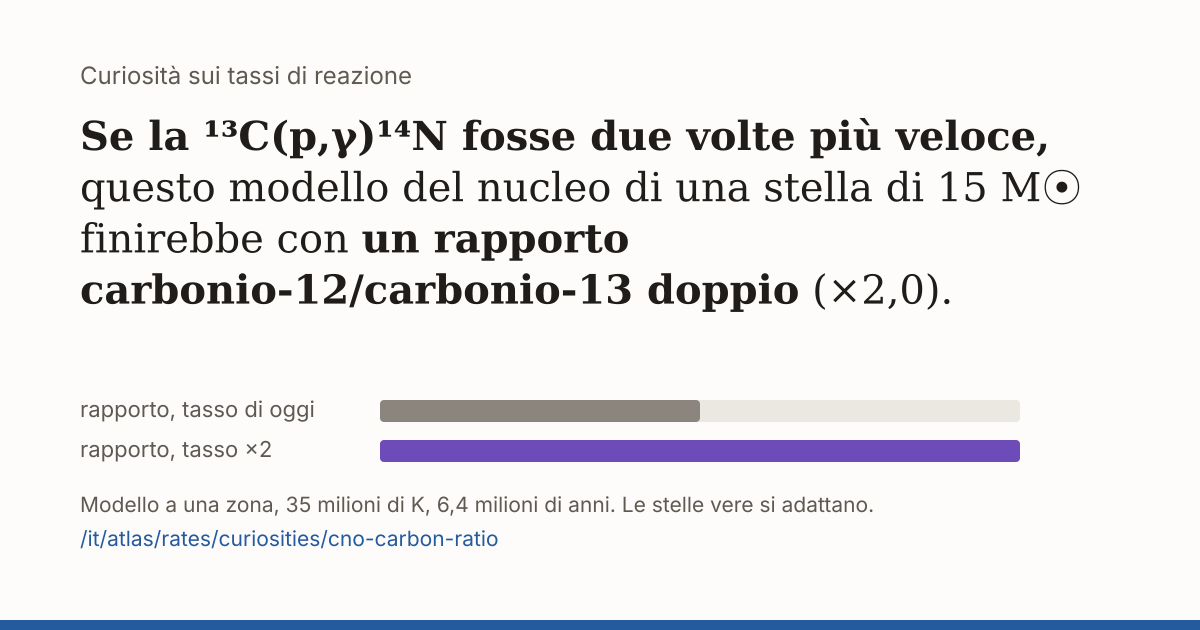
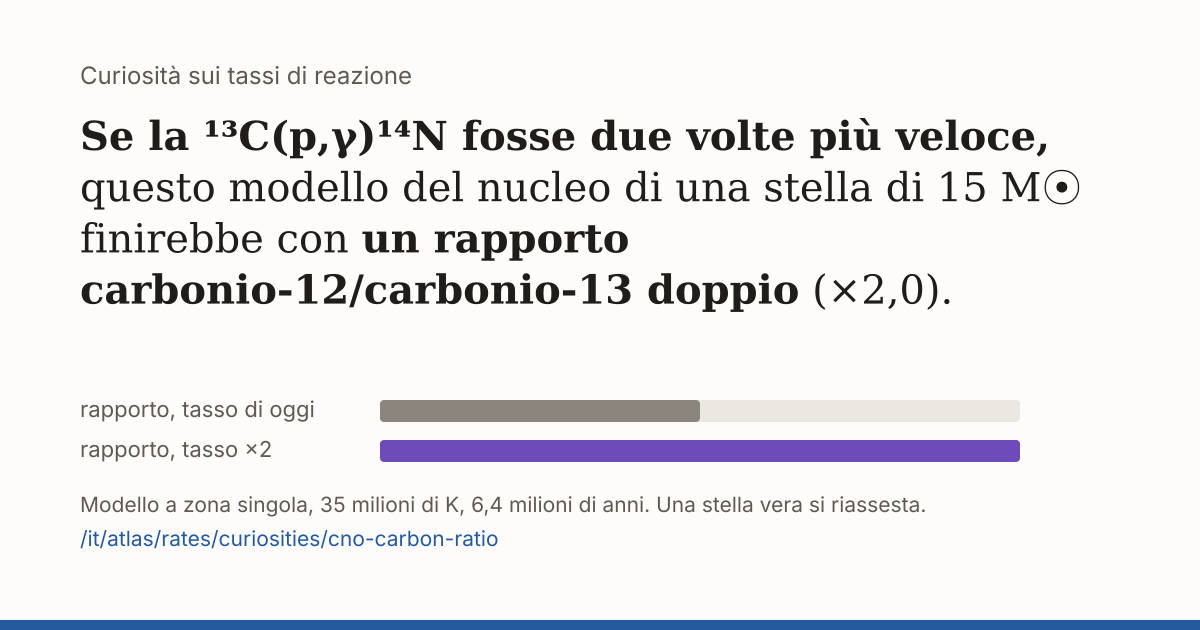
IT style E: curiosities — modello a zona singola, hooks within 15 words
Review items 103-108: the caveat reads «Modello a zona singola … Una stella
vera si riassesta.» (IT social cards redrawn; EN cards byte-identical),
grani presolari, sotto terra, riga γ a 1809/1275 keV. Eight IT hooks were
longer than 15 words; test:rates now checks the hook length in both
languages.

Claude-Session: https://claude.ai/code/session_01TkWK4BAGQtHwuzdXYr3xtP

Changed region(s): [[0.1542, 0.7841, 0.7708, 0.8143]]

diff --git a/lib/rates/curiosities.ts b/lib/rates/curiosities.ts
@@ -73,7 +73,7 @@ export const CURIOSITIES: CuriositySpec[] = [
     where: W.sun,
     hook: {
       en: "The Sun's slowest step, never measured. A real Sun would cool down to compensate.",
-      it: "Il passo più lento del Sole, mai misurato. Un Sole vero si raffredderebbe per compensare.",
+      it: "Nessuno ha mai misurato il passo più lento del Sole. Un Sole vero compenserebbe raffreddandosi.",
     },
   },
   {
@@ -86,7 +86,7 @@ export const CURIOSITIES: CuriositySpec[] = [
     where: W.sun,
     hook: {
       en: "Beryllium‑7 gives off the Sun's ⁷Be neutrinos, which Borexino counted on Earth.",
-      it: "Il berillio‑7 emette i neutrini del ⁷Be del Sole, che Borexino conta sulla Terra.",
+      it: "Il berillio‑7 è la sorgente dei neutrini solari del ⁷Be, che Borexino rivela sulla Terra.",
     },
   },
   {
@@ -114,7 +114,7 @@ export const CURIOSITIES: CuriositySpec[] = [
     where: W.m15,
     hook: {
       en: "Astronomers measure this ratio in red giants; LUNA measured this rate underground in 2023.",
-      it: "Gli astronomi misurano questo rapporto nelle giganti rosse; LUNA ha misurato questo tasso sottoterra nel 2023.",
+      it: "Le giganti rosse mostrano questo rapporto; LUNA ha misurato il tasso sotto terra nel 2023.",
     },
   },
   {
@@ -142,7 +142,7 @@ export const CURIOSITIES: CuriositySpec[] = [
     where: W.hbb,
     hook: {
       en: "Sodium varies from star to star in globular clusters; LUNA measured this rate in 2018.",
-      it: "Il sodio varia da stella a stella negli ammassi globulari; LUNA ha misurato questo tasso nel 2018.",
+      it: "Il sodio varia tra le stelle degli ammassi globulari; tasso misurato da LUNA nel 2018.",
     },
   },
   {
@@ -155,7 +155,7 @@ export const CURIOSITIES: CuriositySpec[] = [
     where: W.hbb,
     hook: {
       en: "This reaction closes the NeNa cycle; its rival, (p,γ), lets sodium leak towards magnesium.",
-      it: "Questa reazione chiude il ciclo NeNa; la sua rivale, la (p,γ), fa uscire il sodio verso il magnesio.",
+      it: "Chiude il ciclo NeNa; la rivale (p,γ) porta invece il sodio verso il magnesio.",
     },
   },
   {
@@ -168,11 +168,11 @@ export const CURIOSITIES: CuriositySpec[] = [
     where: W.hbb,
     hook: {
       en: "Aluminium‑26's 1.809 MeV glow maps the Milky Way.",
-      it: "La luce a 1,809 MeV dell'alluminio‑26 disegna la Via Lattea.",
+      it: "La riga γ a 1809 keV dell'alluminio‑26 disegna la Via Lattea.",
     },
     note: {
       en: "This model counts all the aluminium‑26 made, including a short-lived form that never glows, so here it is an upper limit.",
-      it: "Il modello conta tutto l'alluminio‑26 prodotto, anche una forma di vita breve che non emette questa luce: qui è quindi un limite superiore.",
+      it: "Il modello conta tutto l'alluminio‑26 prodotto, anche una forma di vita breve che non emette questa riga: qui è quindi un limite superiore.",
     },
   },
   {
@@ -211,7 +211,7 @@ export const CURIOSITIES: CuriositySpec[] = [
     where: W.co,
     hook: {
       en: "Fluorine‑18 powers the 511 keV gamma-ray flash expected in a nova's first hours.",
-      it: "Il fluoro‑18 alimenta il lampo di raggi gamma a 511 keV atteso nelle prime ore di una nova.",
+      it: "Il fluoro‑18 alimenta il lampo γ a 511 keV atteso nelle prime ore della nova.",
     },
   },
   {
@@ -237,7 +237,7 @@ export const CURIOSITIES: CuriositySpec[] = [
     where: W.pulse,
     hook: {
       en: "In the short hot pulse, neon‑22 burns only partly: its rate sets the neutrons.",
-      it: "Nel breve impulso caldo il neon‑22 brucia solo in parte: il suo tasso decide i neutroni.",
+      it: "Nel breve impulso il neon‑22 brucia solo in parte: il tasso decide quanti neutroni libera.",
     },
   },
   {

diff --git a/components/pages/rates.tsx b/components/pages/rates.tsx
@@ -92,9 +92,9 @@ function How({ lang }: { lang: Lang }) {
           decadere.
         </P>
         <P>
-          «E se» ricalcola la combustione in un modello a una zona: temperatura e densità fisse, la composizione
+          «E se» ricalcola la combustione in un modello a zona singola: temperatura e densità fisse, la composizione
           iniziale dello scenario, e la rete integrata nel tempo con un metodo implicito, in un thread separato del tuo
-          browser. Il risultato è confrontato con quello dei tassi originali. Un modello a una zona mostra quali
+          browser. Il risultato è confrontato con quello dei tassi originali. Un modello a zona singola mostra quali
           reazioni contano e quanto; non sostituisce un modello di stella. I valori di ogni scenario e la loro fonte
           sono sotto «Da dove vengono questi numeri».
         </P>

diff --git a/lib/rates/curiosity-data.ts b/lib/rates/curiosity-data.ts
@@ -102,7 +102,7 @@ function card(spec: CuriositySpec, lang: Lang): CuriosityCardData {
     rateSource: src
       ? `${src.author || src.title}${src.year ? ` (${src.year})` : ""}${src.ref && src.author ? `, ${src.ref}` : ""}${src.note ? `, ${it ? (src.note_it ?? src.note) : src.note}` : ""}; REACLIB ${src.set}`
       : "",
-    model: `${it ? "modello a una zona" : "one-zone model"}; ${network.provenance.library} ${network.provenance.snapshot}, ${network.provenance.tool}; ${network.provenance.generated}`,
+    model: `${it ? "modello a zona singola" : "one-zone model"}; ${network.provenance.library} ${network.provenance.snapshot}, ${network.provenance.tool}; ${network.provenance.generated}`,
     image: fs.existsSync(path.join(process.cwd(), "public", img)) ? img : null,
   }
 }

diff --git a/components/pages/rates-sprocess.tsx b/components/pages/rates-sprocess.tsx
@@ -91,7 +91,7 @@ function How({ lang }: { lang: Lang }) {
           decide direttamente quanti neutroni ci sono.
         </P>
         <P>
-          Il modello è a una zona: temperatura e densità fisse, una composizione iniziale per ogni ambiente, la rete
+          Il modello è a zona singola: temperatura e densità fisse, una composizione iniziale per ogni ambiente, la rete
           integrata nel tuo browser con lo stesso metodo implicito della pagina dei tassi e verificata con pynucastro.
           Mostra come le sorgenti, i veleni e i semi spostano la distribuzione, non le rese di una stella.
         </P>

diff --git a/lib/data/i18n-public.ts b/lib/data/i18n-public.ts
@@ -448,7 +448,7 @@ const it: typeof en = {
     share: "Condividi",
     copy: "Copia il link",
     copied: "Link copiato",
-    caveat: "Modello a una zona del centro di una stella, a temperatura e densità costanti. Le stelle vere si adattano.",
+    caveat: "Modello a zona singola del centro di una stella, a temperatura e densità costanti. Una stella vera si riassesta.",
 
     sourcesTitle: "Da dove vengono i dati",
     ensdfLine: (date: string) => `Livelli: ENSDF (NNDC e la rete NSDD), archivio del ${date}.`,
